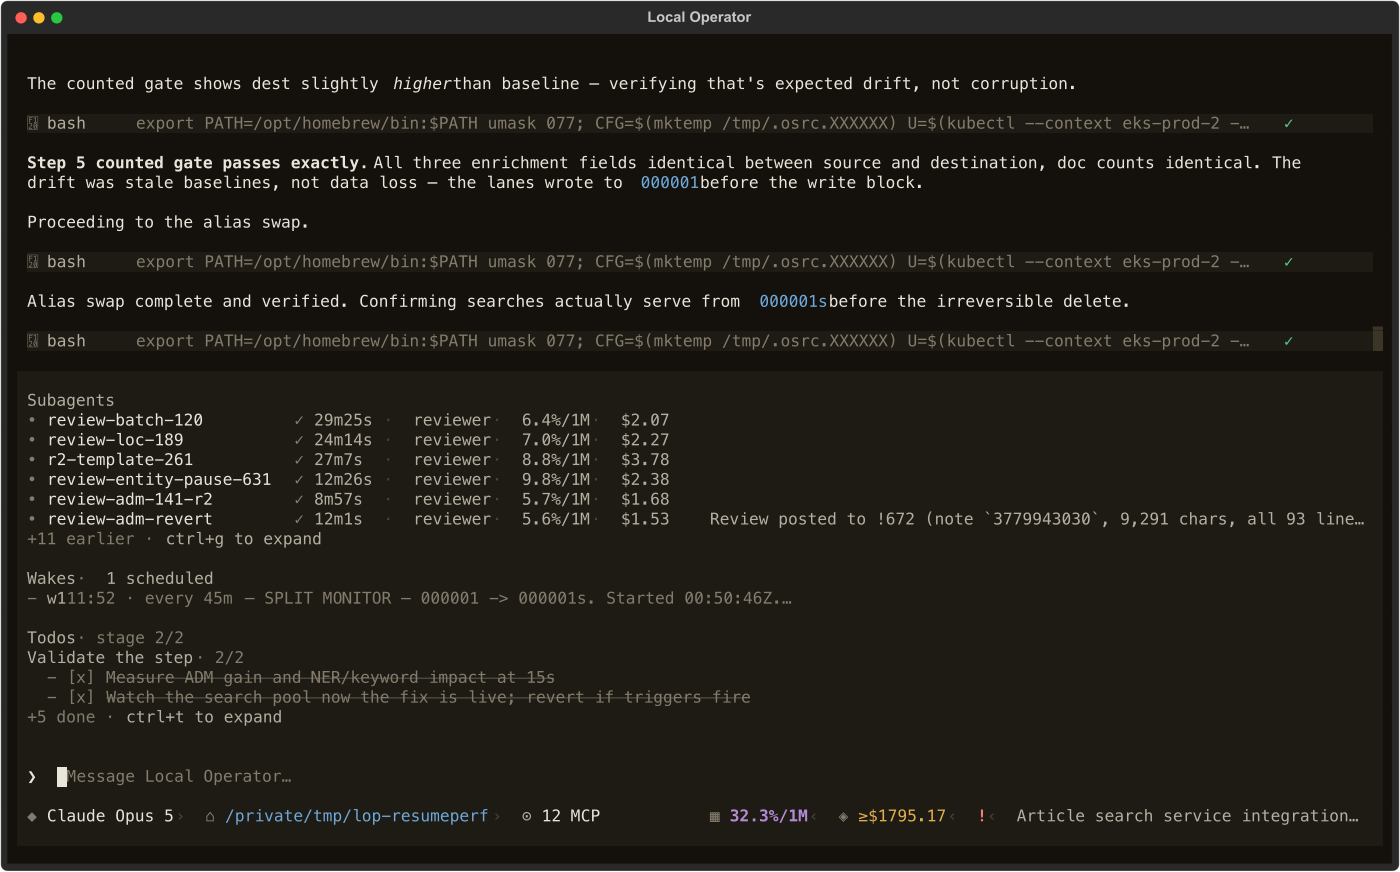
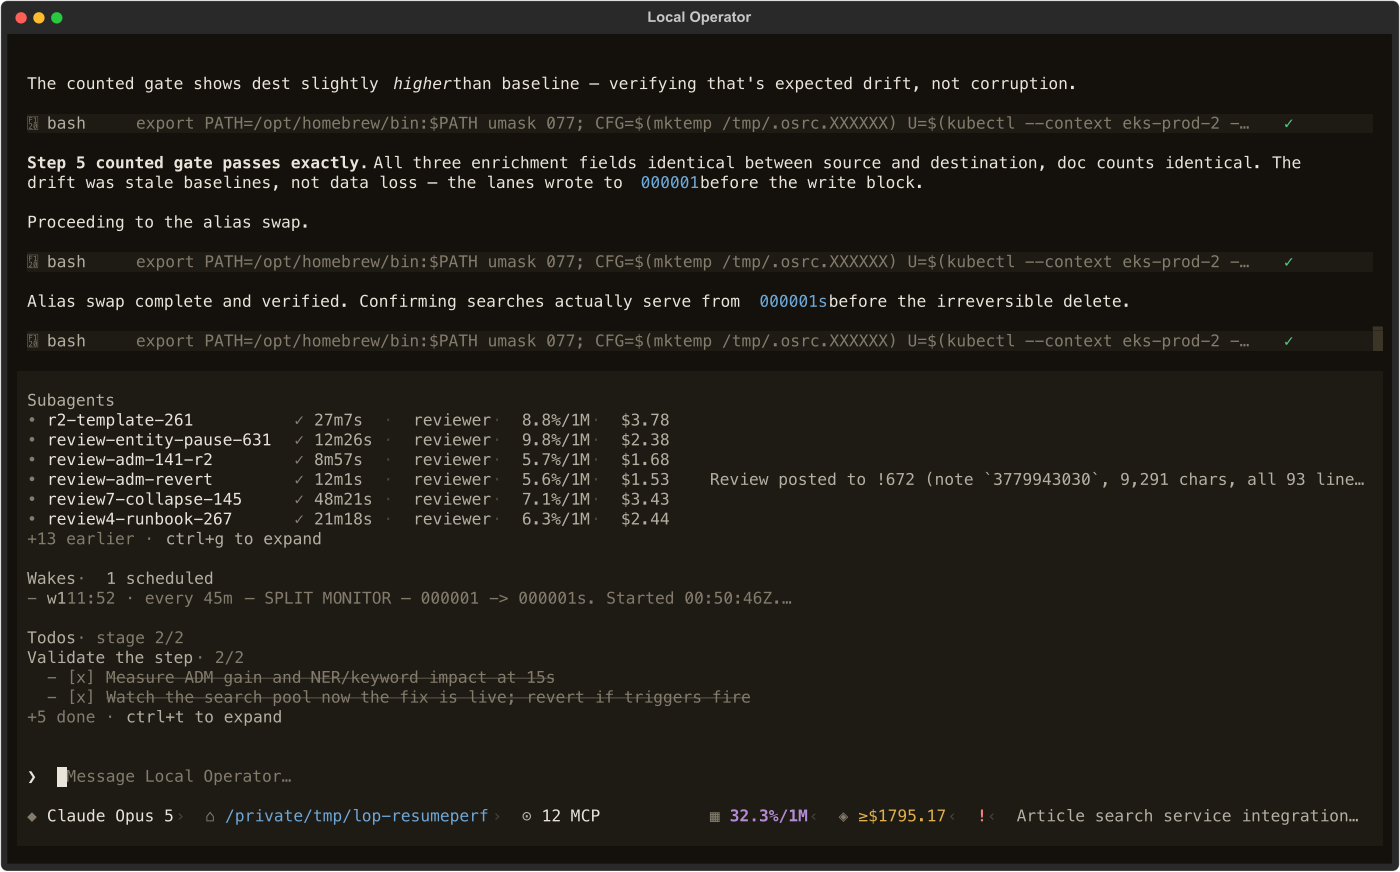
fix(sessions): restore the roster as the union of both durable stores
UX review round 1, U4: cold resume showed 17 subagents where the sidecar
had 18. Not an off-by-one and not a filter — the two stores are written on
different triggers (the sidecar on every roster move, the checkpoint at
turn end), so they diverge whenever a child settles after the last turn
boundary. On the reference session they disagree in BOTH directions: two
children only the sidecar knows, one only the checkpoint knows.

Reading either alone drops a child that really ran. The restore now merges
the sidecar over the checkpoint — the sidecar wins per-row because it is
the roster's own store and the fresher of the two, which is why
`_load_subagent_roster` reads it first on the owner path — and keeps rows
present in only one. Reference session: 17 -> 19 restored, 0 running.

diff --git a/tests/unit/session/test_remote_cold.py b/tests/unit/session/test_remote_cold.py
@@ -813,3 +813,81 @@ async def test_an_unreadable_checkpoint_degrades_loudly(
         assert [getattr(m, "text", "") for m in viewer.history()] == ["still here?"]
     finally:
         await viewer.dispose()
+
+
+@pytest.mark.asyncio
+async def test_the_restored_roster_unions_the_sidecar_and_the_checkpoint(
+    tmp_path: Path, monkeypatch
+) -> None:
+    """Neither store alone is the full roster, so the restore reads both.
+
+    The sidecar is written on every roster move and the checkpoint at turn
+    end, so they disagree whenever a child settles after the last turn
+    boundary. On the reference session they differ in BOTH directions — 18
+    rows against 17, two children only the sidecar knows and one only the
+    checkpoint knows — so a resume that read either alone dropped a child that
+    really ran (UX round 1, U4).
+    """
+    monkeypatch.setenv("LOCAL_OPERATOR_CONFIG_DIR", str(tmp_path))
+    directory = _seed_transcript(tmp_path, SESSION_ID)
+
+    import json
+
+    from local_operator.harness.types import Message
+    from local_operator.session.frontend_state import (
+        FRONTEND_CHECKPOINT_CUSTOM_TYPE,
+        FrontendSessionState,
+        JobState,
+    )
+    from local_operator.session.session import SUBAGENT_ROSTER_SIDECAR
+    from local_operator.session.transcript import Transcript
+
+    transcript = Transcript(directory)
+    await transcript.append_message(Message.user("go"))
+    durable = FrontendSessionState(
+        session_id=SESSION_ID,
+        epoch="previous-owner",
+        jobs=[
+            JobState(id="shared", type="task", label="in both", status="completed"),
+            JobState(id="checkpoint-only", type="task", label="older store", status="completed"),
+        ],
+    )
+    await transcript.append_custom(
+        FRONTEND_CHECKPOINT_CUSTOM_TYPE,
+        {"checkpoint_id": "c1", "state": durable.model_dump(mode="json")},
+    )
+    (directory / SUBAGENT_ROSTER_SIDECAR).write_text(
+        json.dumps(
+            {
+                "version": 1,
+                "generation": 4,
+                "records": [],
+                "jobs": [
+                    # The sidecar is fresher: its copy of the shared row wins.
+                    {"id": "shared", "type": "task", "label": "in both", "status": "failed"},
+                    {
+                        "id": "sidecar-only",
+                        "type": "task",
+                        "label": "settled after the turn",
+                        "status": "completed",
+                    },
+                ],
+            }
+        ),
+        encoding="utf-8",
+    )
+
+    viewer = await RemoteSession.cold(
+        SESSION_ID, config_dir=tmp_path, cwd=str(tmp_path), takeover_factory=_never
+    )
+    try:
+        jobs = {job.id: job for job in viewer.frontend_state.jobs}
+        assert set(jobs) == {
+            "shared",
+            "checkpoint-only",
+            "sidecar-only",
+        }, "a child recorded by only one store still ran; the roster is the union"
+        # Where both know a row, the fresher store wins.
+        assert jobs["shared"].status == "failed"
+    finally:
+        await viewer.dispose()

diff --git a/local_operator/session/remote.py b/local_operator/session/remote.py
@@ -80,6 +80,7 @@ from local_operator.session.frontend_state import (
     FrontendStateStore,
     FrontendSync,
     FrontendUpdate,
+    JobState,
     SnapshotJobs,
     SnapshotMcpManager,
     SnapshotSubagentComms,
@@ -584,7 +585,7 @@ class RemoteSession:
                 # Everything the last runtime knew and this process cannot
                 # derive. The panel reads these directly, so restoring them is
                 # what puts the session's details on the FIRST frame.
-                "jobs": _restored_job_rows(durable.jobs),
+                "jobs": _restored_job_rows(self._durable_roster(durable)),
                 "todos": list(durable.todos),
                 "conversation_title": durable.conversation_title,
                 "conversation_title_user_set": durable.conversation_title_user_set,
@@ -621,6 +622,45 @@ class RemoteSession:
                 **self._restored_model_specs(state, durable),
             }
         )
+
+    def _durable_roster(self, durable: FrontendSessionState) -> Sequence[Any]:
+        """The roster to restore: the SIDECAR's rows, falling back to the
+        checkpoint's.
+
+        The two stores are written on different triggers — the sidecar on every
+        roster move (``_persist_subagent_roster``), the checkpoint at turn end
+        (``FrontendStateStore.checkpoint``) — so they disagree whenever a child
+        settles after the last turn boundary. On the reference session they
+        differ in BOTH directions: 18 rows against 17, with two children only
+        the sidecar knows and one only the checkpoint knows (UX round 1, U4).
+
+        The sidecar wins because it is the roster's own store and the fresher
+        of the two, which is the same reason ``_load_subagent_roster`` reads it
+        first on the owner path. Its rows are merged OVER the checkpoint's
+        rather than replacing them, so a child the sidecar has since dropped
+        but the checkpoint still records is not silently lost — a resumed
+        session should show every child it ever had, and neither store alone is
+        a complete list.
+
+        Best-effort: an unreadable or absent sidecar leaves the checkpoint's
+        rows exactly as they were.
+        """
+        from local_operator.session.session import (
+            SUBAGENT_ROSTER_SIDECAR,
+            _read_roster_sidecar,
+        )
+
+        rows: dict[str, Any] = {str(job.id): job for job in durable.jobs}
+        try:
+            payload = _read_roster_sidecar(
+                self._config_dir / "sessions" / self._session_id / SUBAGENT_ROSTER_SIDECAR
+            )
+            for raw in (payload or {}).get("jobs") or []:
+                job = JobState.model_validate(raw)
+                rows[str(job.id)] = job
+        except Exception:  # noqa: BLE001 — a bad sidecar must not stop the open
+            logger.debug("cold state could not read the roster sidecar", exc_info=True)
+        return list(rows.values())
 
     @staticmethod
     def _consistent_context(
